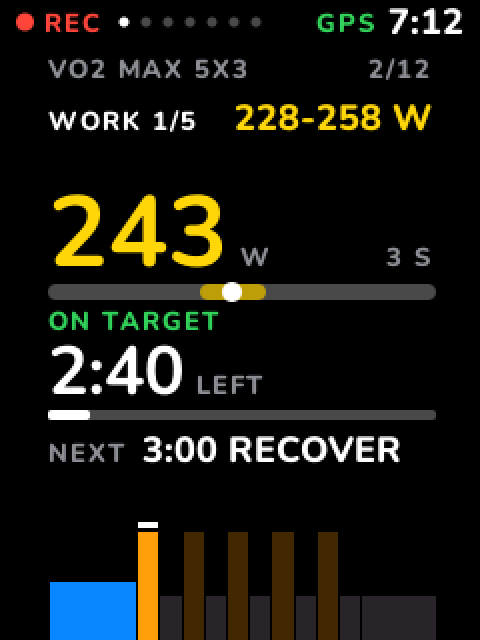
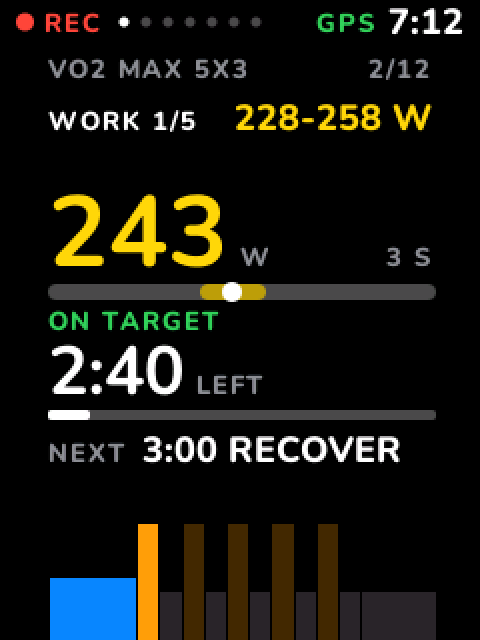
fix(vana): drop the workout chart's white now-bar
The step on now already reads from colour: it is the last bar lit, with
the steps ahead dimmed. The white bar over it only cluttered the chart.

diff --git a/apps/vana/src/screens/ride/workout.rs b/apps/vana/src/screens/ride/workout.rs
@@ -9,7 +9,7 @@
 //! distance left over the step's progress bar, amber for the last seconds;
 //! the next step; then one bar per played step, its height the target's
 //! intensity and its colour the target's zone. Past and current steps are
-//! full colour, the rest 25 %, and a white bar marks the step on now.
+//! full colour, the rest 25 %.
 use super::{BODY, LEFT, RIGHT, Text};
 use crate::ride::zones::TrainingProfile;
 use crate::screens::canvas::{Canvas, Shape};
@@ -62,14 +62,8 @@ pub const EXTEND_ROWS: core::ops::Range<usize> =
 pub(super) const CHART_TOP: usize = NEXT_BASE + 10;
 pub(super) const CHART_BOTTOM: usize = BODY.bottom;
 const CHART_HEIGHT: usize = CHART_BOTTOM - CHART_TOP;
-/// The white bar over the step on now, this many rows clear of its bar.
-const NOW_HEIGHT: usize = 3;
-const NOW_GAP: usize = 2;
-/// The tallest bar stops this far down, so the bar over it fits.
-const NOW_ROOM: usize = NOW_HEIGHT + NOW_GAP;
-const BAR_HEIGHT: usize = CHART_HEIGHT - NOW_ROOM;
 pub(super) const CHART_WIDTH: usize = RIGHT - LEFT;
-const _: () = assert!(BAR_HEIGHT >= 20, "the workout chart needs some height");
+const _: () = assert!(CHART_HEIGHT >= 20, "the workout chart needs some height");
 /// Untimed steps take this much chart width, as if they lasted this long.
 const OPEN_WEIGHT_S: u32 = 120;
 /// A target of this much intensity fills the chart's height.
@@ -85,10 +79,6 @@ pub struct Chart {
     /// Each column's colour as an index into `palette`, to keep the view small.
     colors: [u8; CHART_WIDTH],
     palette: heapless::Vec<u16, PALETTE>,
-    /// The columns of the step on now.
-    now: (usize, usize),
-    /// The rows of the white bar over it, from `CHART_TOP`.
-    now_rows: (usize, usize),
 }
 
 /// Colours a chart can use: each zone, cadence and none, lit and at 25 %.
@@ -120,8 +110,6 @@ impl Chart {
         tops: [EMPTY; CHART_WIDTH],
         colors: [0; CHART_WIDTH],
         palette: heapless::Vec::new(),
-        now: (0, 0),
-        now_rows: (0, 0),
     };
 }
 
@@ -587,20 +575,12 @@ pub fn chart(player: &Player, profile: &TrainingProfile) -> Chart {
             zone(played.step.target, profile),
             intensity(played.step.target, profile).unwrap_or(40),
         );
-        if index == position && !done {
-            chart.now = (first, last);
-        }
-        let mut stair_now = None::<(usize, usize)>;
         for column in first..last {
             let (color, pct, dim) = match ramp {
                 Some((ramp, stairs, current)) => {
                     let stage =
                         ((column - first) as u32 * stairs / (last - first) as u32).min(stairs - 1);
                     let watts = ramp.stage_watts(stage);
-                    if index == position && !done && stage == current {
-                        let (low, _) = stair_now.unwrap_or((column, column));
-                        stair_now = Some((low, column + 1));
-                    }
                     let dim = ahead || (index == position && !done && stage > current);
                     (
                         zone_color(profile.power_zone(watts)),
@@ -611,29 +591,17 @@ pub fn chart(player: &Player, profile: &TrainingProfile) -> Chart {
                 None => (color, pct, ahead),
             };
             let color = if dim { blend(color, BLACK, 4) } else { color };
-            let height = (pct.min(FULL_PCT) as usize * BAR_HEIGHT / FULL_PCT as usize).max(3);
+            let height = (pct.min(FULL_PCT) as usize * CHART_HEIGHT / FULL_PCT as usize).max(3);
             chart.tops[column] = (CHART_HEIGHT - height) as u8;
             chart.colors[column] = chart.index(color);
         }
-        if let Some(stair) = stair_now {
-            chart.now = stair;
-        }
-    }
-    if let Some(&top) = chart.tops[chart.now.0..chart.now.1].iter().min() {
-        let bottom = usize::from(top) - NOW_GAP;
-        chart.now_rows = (bottom - NOW_HEIGHT, bottom);
     }
     chart
 }
 
-/// Paint the chart's row: the white bar over the step on now, then the bars.
+/// Paint the chart's row of bars.
 pub(super) fn paint_chart(chart: &Chart, row: &mut Row) {
     let y = row.y();
-    let (low, high) = chart.now_rows;
-    if (CHART_TOP + low..CHART_TOP + high).contains(&y) {
-        row.span(LEFT + chart.now.0..LEFT + chart.now.1, WHITE);
-        return;
-    }
     if !(CHART_TOP..CHART_BOTTOM).contains(&y) {
         return;
     }
@@ -661,12 +629,6 @@ pub(super) fn chart_pixel(chart: &Chart, x: usize, y: usize) -> u16 {
         return BLACK;
     }
     let column = x - LEFT;
-    let (low, high) = chart.now_rows;
-    if (CHART_TOP + low..CHART_TOP + high).contains(&y)
-        && (chart.now.0..chart.now.1).contains(&column)
-    {
-        return WHITE;
-    }
     if (CHART_TOP..CHART_BOTTOM).contains(&y)
         && chart.tops[column] != EMPTY
         && (y - CHART_TOP) as u8 >= chart.tops[column]
@@ -744,7 +706,7 @@ mod tests {
         );
         assert_eq!(workout.validate(), Ok(()));
         let chart = chart(&Player::new(workout), &TrainingProfile::default());
-        assert!(chart.now.1 > chart.now.0);
+        assert!(chart.tops.iter().any(|&top| top != EMPTY));
     }
 
     #[test]
@@ -755,7 +717,7 @@ mod tests {
         assert_eq!(workout.validate(), Ok(()));
         let player = Player::new(workout);
         let chart = chart(&player, &TrainingProfile::default());
-        assert!(chart.now.1 > chart.now.0);
+        assert!(chart.tops.iter().any(|&top| top != EMPTY));
     }
 
     #[test]
@@ -773,8 +735,6 @@ mod tests {
         assert!(canvas.shows("2:30") && canvas.shows("NEXT"));
         assert!(canvas.shows("3:00 RECOVER"));
         canvas.assert_laid_out(PAGE, &["VO2 MAX 5X3", "228-258 W", "240"], "interval");
-        // The step on now is marked under its bar, and past bars are lit.
-        assert!(view.chart().now.1 > view.chart().now.0);
     }
 
     #[test]
@@ -808,13 +768,21 @@ mod tests {
     }
 
     #[test]
-    fn a_ramp_is_a_staircase_with_the_bar_under_the_stair_on_now() {
+    fn a_ramp_is_a_staircase_lit_up_to_the_stair_on_now() {
         let profile = TrainingProfile::default();
         let mut player = Player::new(FTP_RAMP);
         player.skip();
         ride(&mut player, 130, 140);
         let chart = chart(&player, &profile);
-        let (from, to) = chart.now;
+        let ahead = blend(zone_color(profile.power_zone(147)), BLACK, 4);
+        let to = (0..CHART_WIDTH)
+            .position(|c| chart.tops[c] != EMPTY && chart.color(c) == ahead)
+            .expect("a dim stair ahead");
+        let from = (0..to)
+            .rev()
+            .take_while(|&c| chart.tops[c] == chart.tops[to - 1])
+            .last()
+            .unwrap();
         assert!(to - from > 3, "a stair, not the whole ramp");
         assert!((from..to).all(|c| chart.tops[c] == chart.tops[from]));
         assert!(
@@ -825,8 +793,6 @@ mod tests {
             chart.tops[to] < chart.tops[from],
             "the next stair is higher"
         );
-        let ahead = blend(zone_color(profile.power_zone(147)), BLACK, 4);
-        assert_eq!(chart.color(to), ahead, "stairs ahead are dim");
         assert_ne!(chart.color(from), chart.color(to));
     }
 
@@ -897,7 +863,7 @@ mod tests {
     }
 
     #[test]
-    fn bars_reach_the_bottom_with_the_now_bar_over_the_step_on_now() {
+    fn bars_reach_the_bottom_with_nothing_under_them() {
         let mut player = Player::new(VO2_MAX);
         player.skip();
         ride(&mut player, 30, 240);
@@ -913,12 +879,10 @@ mod tests {
                 .all(|c| last[c] != BLACK),
             "every step's bar reaches the screen's last row"
         );
-        let (from, to) = chart.now;
-        let white = |y: usize| row(y)[from..to].iter().all(|&pixel| pixel == WHITE);
-        let top = CHART_TOP + usize::from(chart.tops[from]);
-        assert!(white(top - NOW_GAP - 1), "the now bar sits over its step");
-        assert!(!white(top), "the now bar leaves the step's bar visible");
-        assert!((BODY.bottom - 6..BODY.bottom).all(|y| !row(y).contains(&WHITE)));
+        assert!(
+            (CHART_TOP..BODY.bottom).all(|y| !row(y).contains(&WHITE)),
+            "no white marker in the chart"
+        );
     }
 
     #[test]
